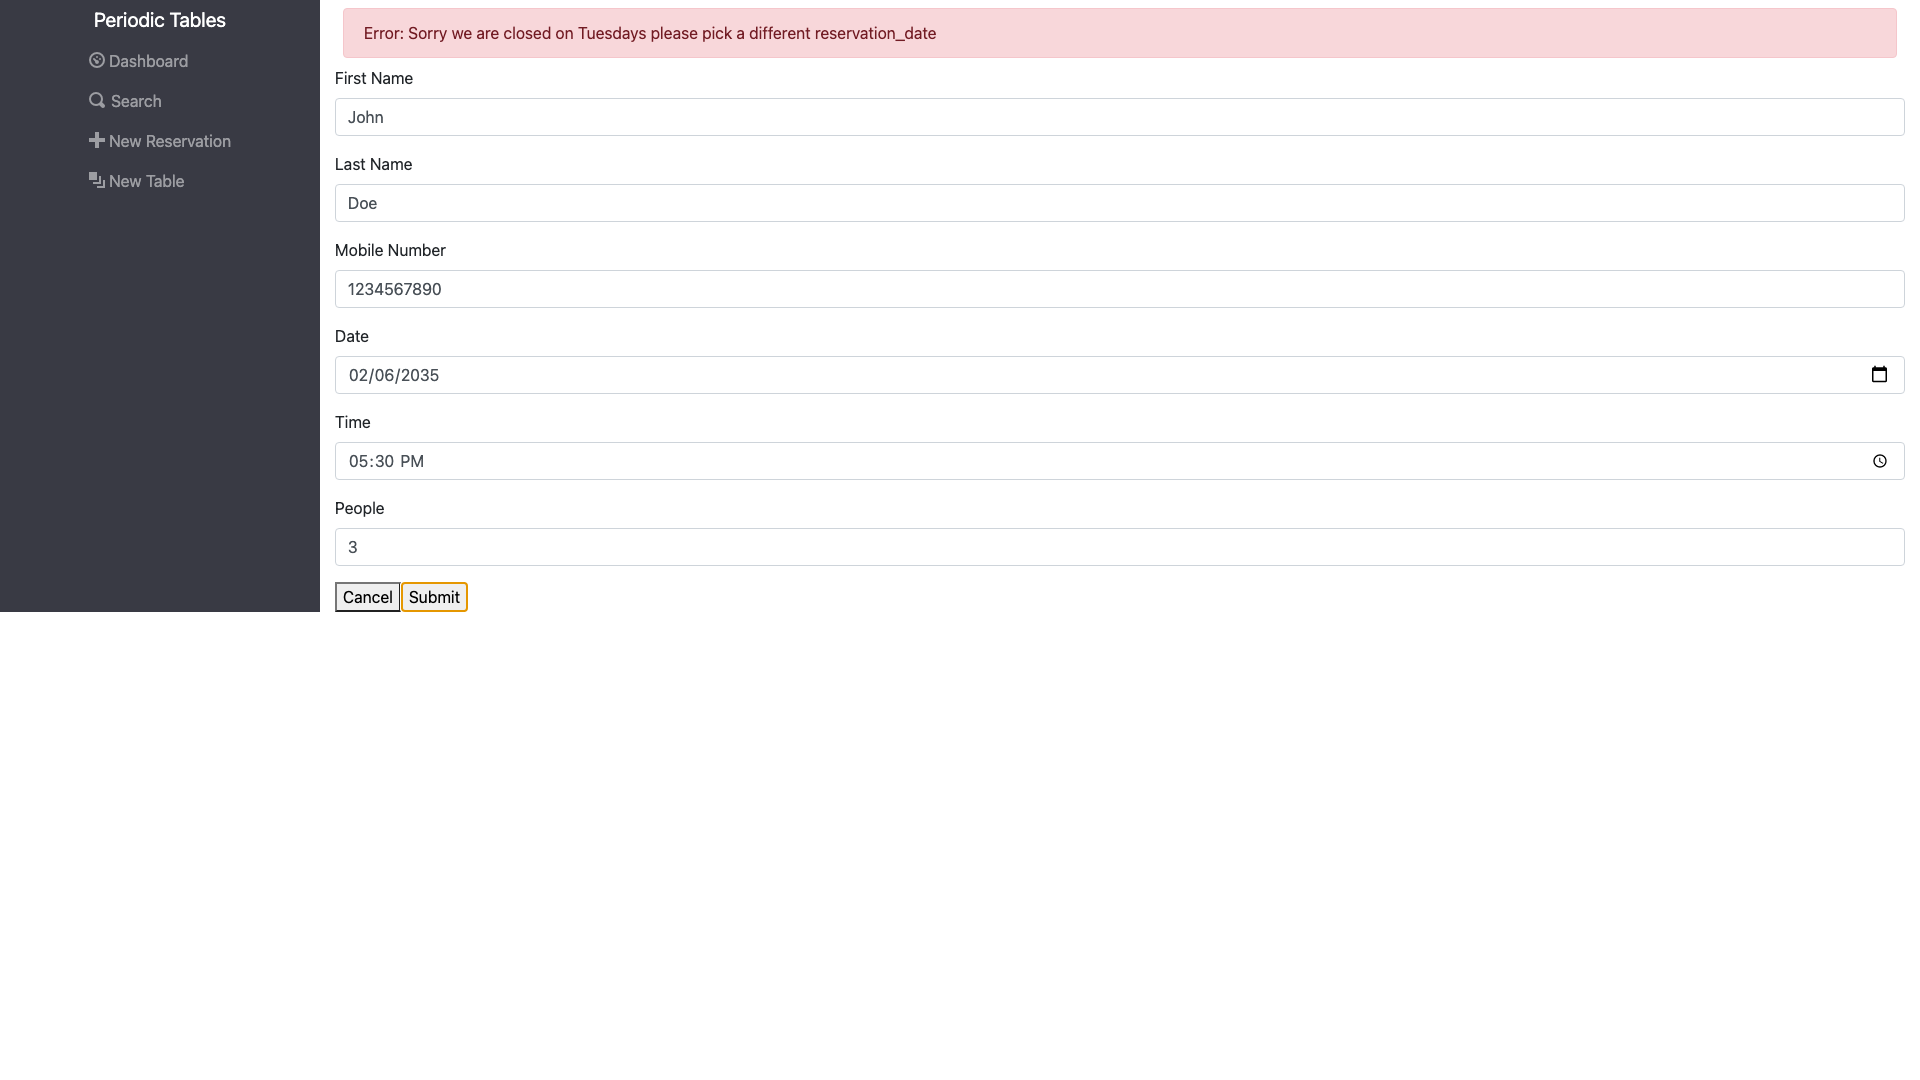
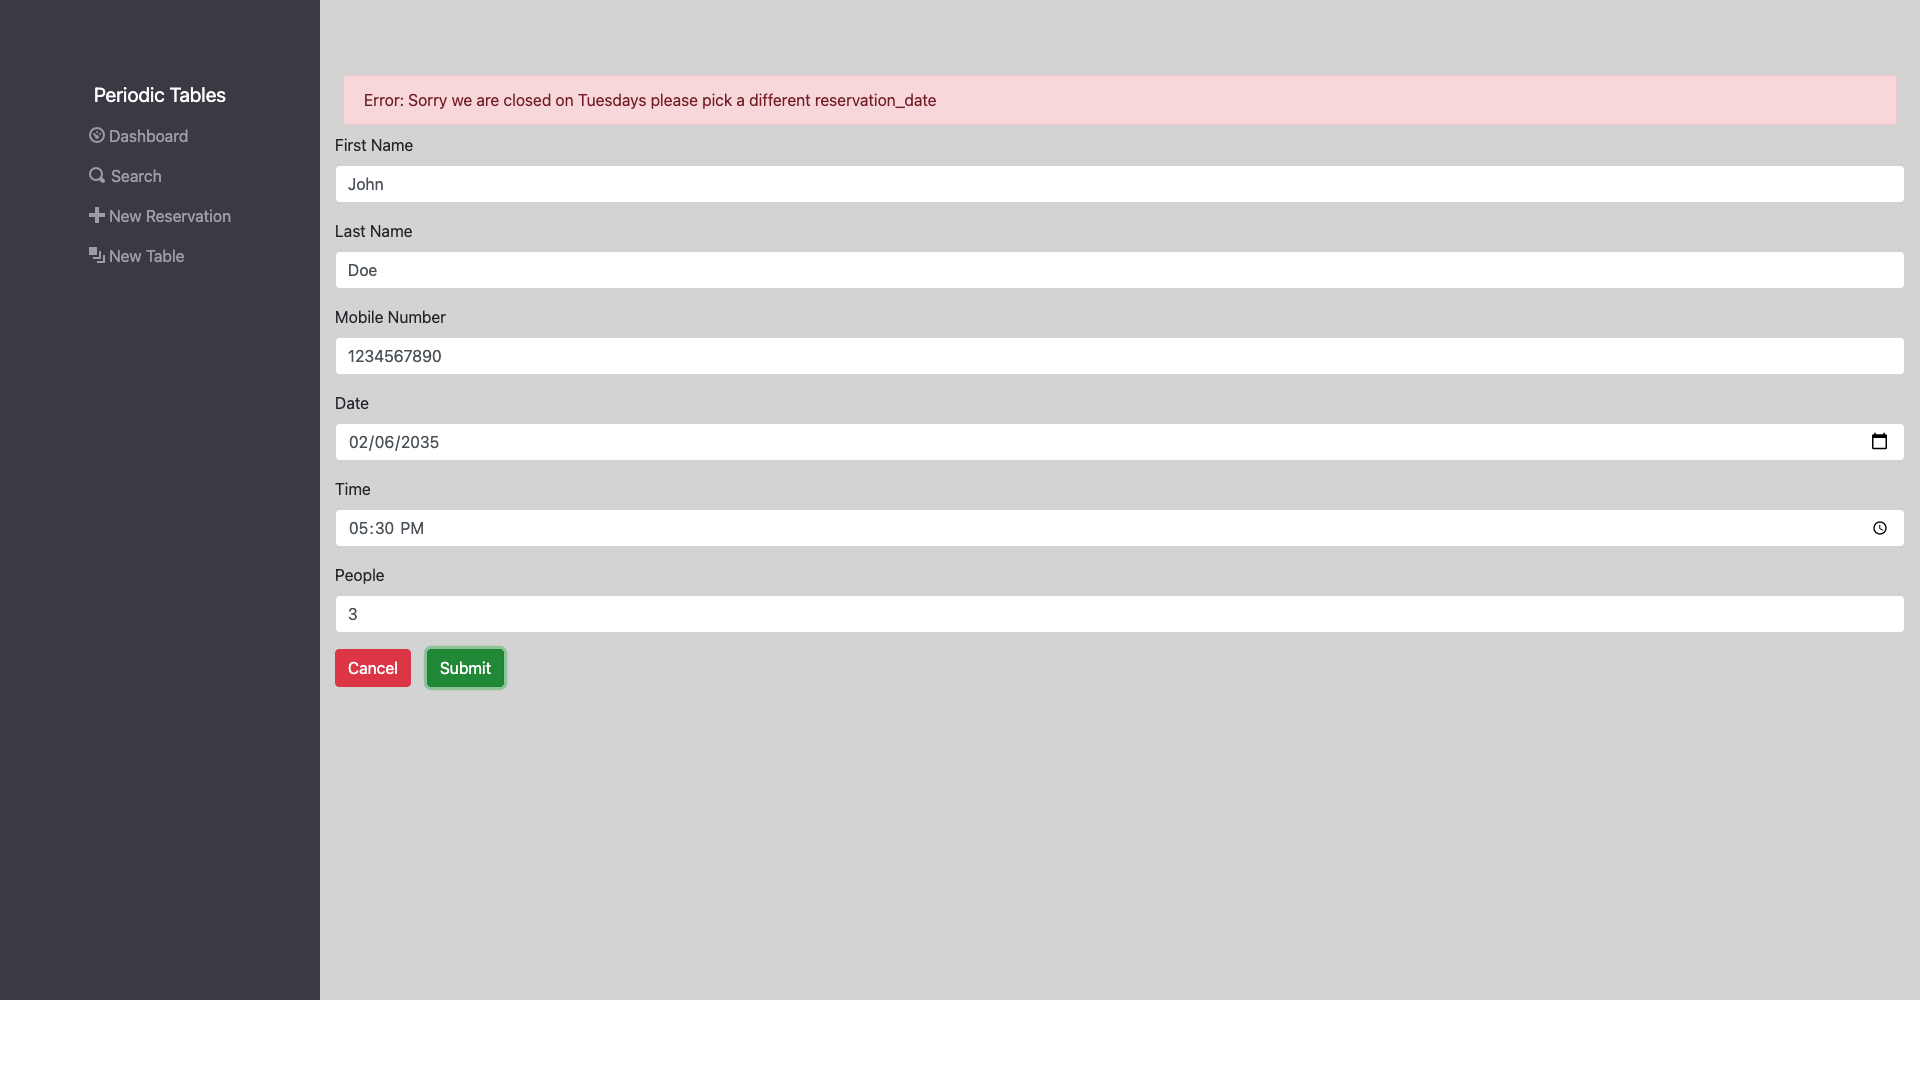
added return () => AC.abort(); to api calls'

diff --git a/front-end/src/layout/reservations/Search.js b/front-end/src/layout/reservations/Search.js
@@ -1,32 +1,48 @@
-import React,{useState} from 'react'
-import { listReservations } from '../../utils/api';
-import ReservationsTable from './ReservationsTable'
+import React, { useState } from "react";
+import { listReservations } from "../../utils/api";
+import ReservationsTable from "./ReservationsTable";
 
 function Search() {
-    const [number, setNumber]=useState("")
-    const [reservations,setReservations]=useState([])
-    const handleChange = (e) => {
-        setNumber(e.target.value);
-      };
-    const handleSearch = (e)=> {
-        e.preventDefault()
-        const AC = new AbortController()
-        listReservations({mobile_number:number},AC.signal).then((setReservations)).then(()=>setNumber(""))
-          .catch(console.error)
-    }
-    return (
-        <div className='col' >
-          <h3 style={{textAlign:"center", margin:"50px 0 50px 0"}}>Search by phone number</h3>
-        <form onSubmit={handleSearch}>
-        <div className="m-3" style={{display:"flex", justifyContent:"center"}}>
-           <input id="mobile_number"type="text" value={number} onChange={handleChange} name="mobile_number"/>
-           <button type="Submit" className="btn btn-primary">Find</button>
+  const [number, setNumber] = useState("");
+  const [reservations, setReservations] = useState([]);
+  const handleChange = (e) => {
+    setNumber(e.target.value);
+  };
+  const handleSearch = (e) => {
+    e.preventDefault();
+    const AC = new AbortController();
+    listReservations({ mobile_number: number }, AC.signal)
+      .then(setReservations)
+      .then(() => setNumber(""))
+      .catch(console.error);
+      return () => AC.abort();
+  };
+  return (
+    <div className="col">
+      <h3 style={{ textAlign: "center", margin: "50px 0 50px 0" }}>
+        Search by phone number
+      </h3>
+      <form onSubmit={handleSearch}>
+        <div
+          className="m-3"
+          style={{ display: "flex", justifyContent: "center" }}
+        >
+          <input
+            id="mobile_number"
+            type="text"
+            value={number}
+            onChange={handleChange}
+            name="mobile_number"
+          />
+          <button type="Submit" className="btn btn-primary">
+            Find
+          </button>
         </div>
-        </form>
-           <ReservationsTable reservations={reservations}/>
-           {!reservations.length && <h3>No reservations found</h3>}
-        </div>
-    )
+      </form>
+      <ReservationsTable reservations={reservations} />
+      {!reservations.length && <h3>No reservations found</h3>}
+    </div>
+  );
 }
 
-export default Search
+export default Search;

diff --git a/front-end/src/layout/Layout.js b/front-end/src/layout/Layout.js
@@ -12,7 +12,7 @@ import "./Layout.css";
  */
 function Layout() {
   return (
-    <div className="container-fluid">
+    <div className="container-fluid" style={{backgroundColor:"#D3D3D3"}}>
       <div className="row" style={{minHeight:"1000px"}}>
         <div className="col-lg-2 side-bar" style={{ paddingTop:"75px"}}>
           <Menu />

diff --git a/front-end/src/layout/reservations/EditReservation.js b/front-end/src/layout/reservations/EditReservation.js
@@ -47,6 +47,7 @@ function EditReservation() {
           updateReservation(form,AC.signal)
           .then(()=>history.push(`/dashboard?date=${form.reservation_date}`))
           .catch(setError)
+          return () => AC.abort();
       }
       if(form.first_name){
           form.reservation_date = formatAsDate(form.reservation_date)

diff --git a/front-end/src/layout/reservations/NewReservation.js b/front-end/src/layout/reservations/NewReservation.js
@@ -37,7 +37,7 @@ function NewReservation() {
           createReservation(form,AC.signal)
           .then(()=>history.push(`/dashboard?date=${form.reservation_date}`))
           .catch(setError)
-
+          return () => AC.abort();
       }
     return (
       <div style={{marginTop:"75px"}}>

diff --git a/front-end/src/layout/reservations/SeatReservation.js b/front-end/src/layout/reservations/SeatReservation.js
@@ -42,6 +42,7 @@ function SeatReservation() {
             updateTable({reservation_id},chosenTable.table_id, AC.signal)
             .then(()=>history.push("/"))
             .catch(setError)
+            return () => AC.abort();
         }
 
     const tableOptions = tables.map((table)=>{

diff --git a/front-end/src/layout/tables/NewTable.js b/front-end/src/layout/tables/NewTable.js
@@ -16,7 +16,7 @@ function NewTable() {
         createTable(form,AC.signal)
         .then(()=>history.push("/"))
         .catch(setError)
-
+        return () => AC.abort();
     }
     const handleChange = (e) => {
         setForm({
